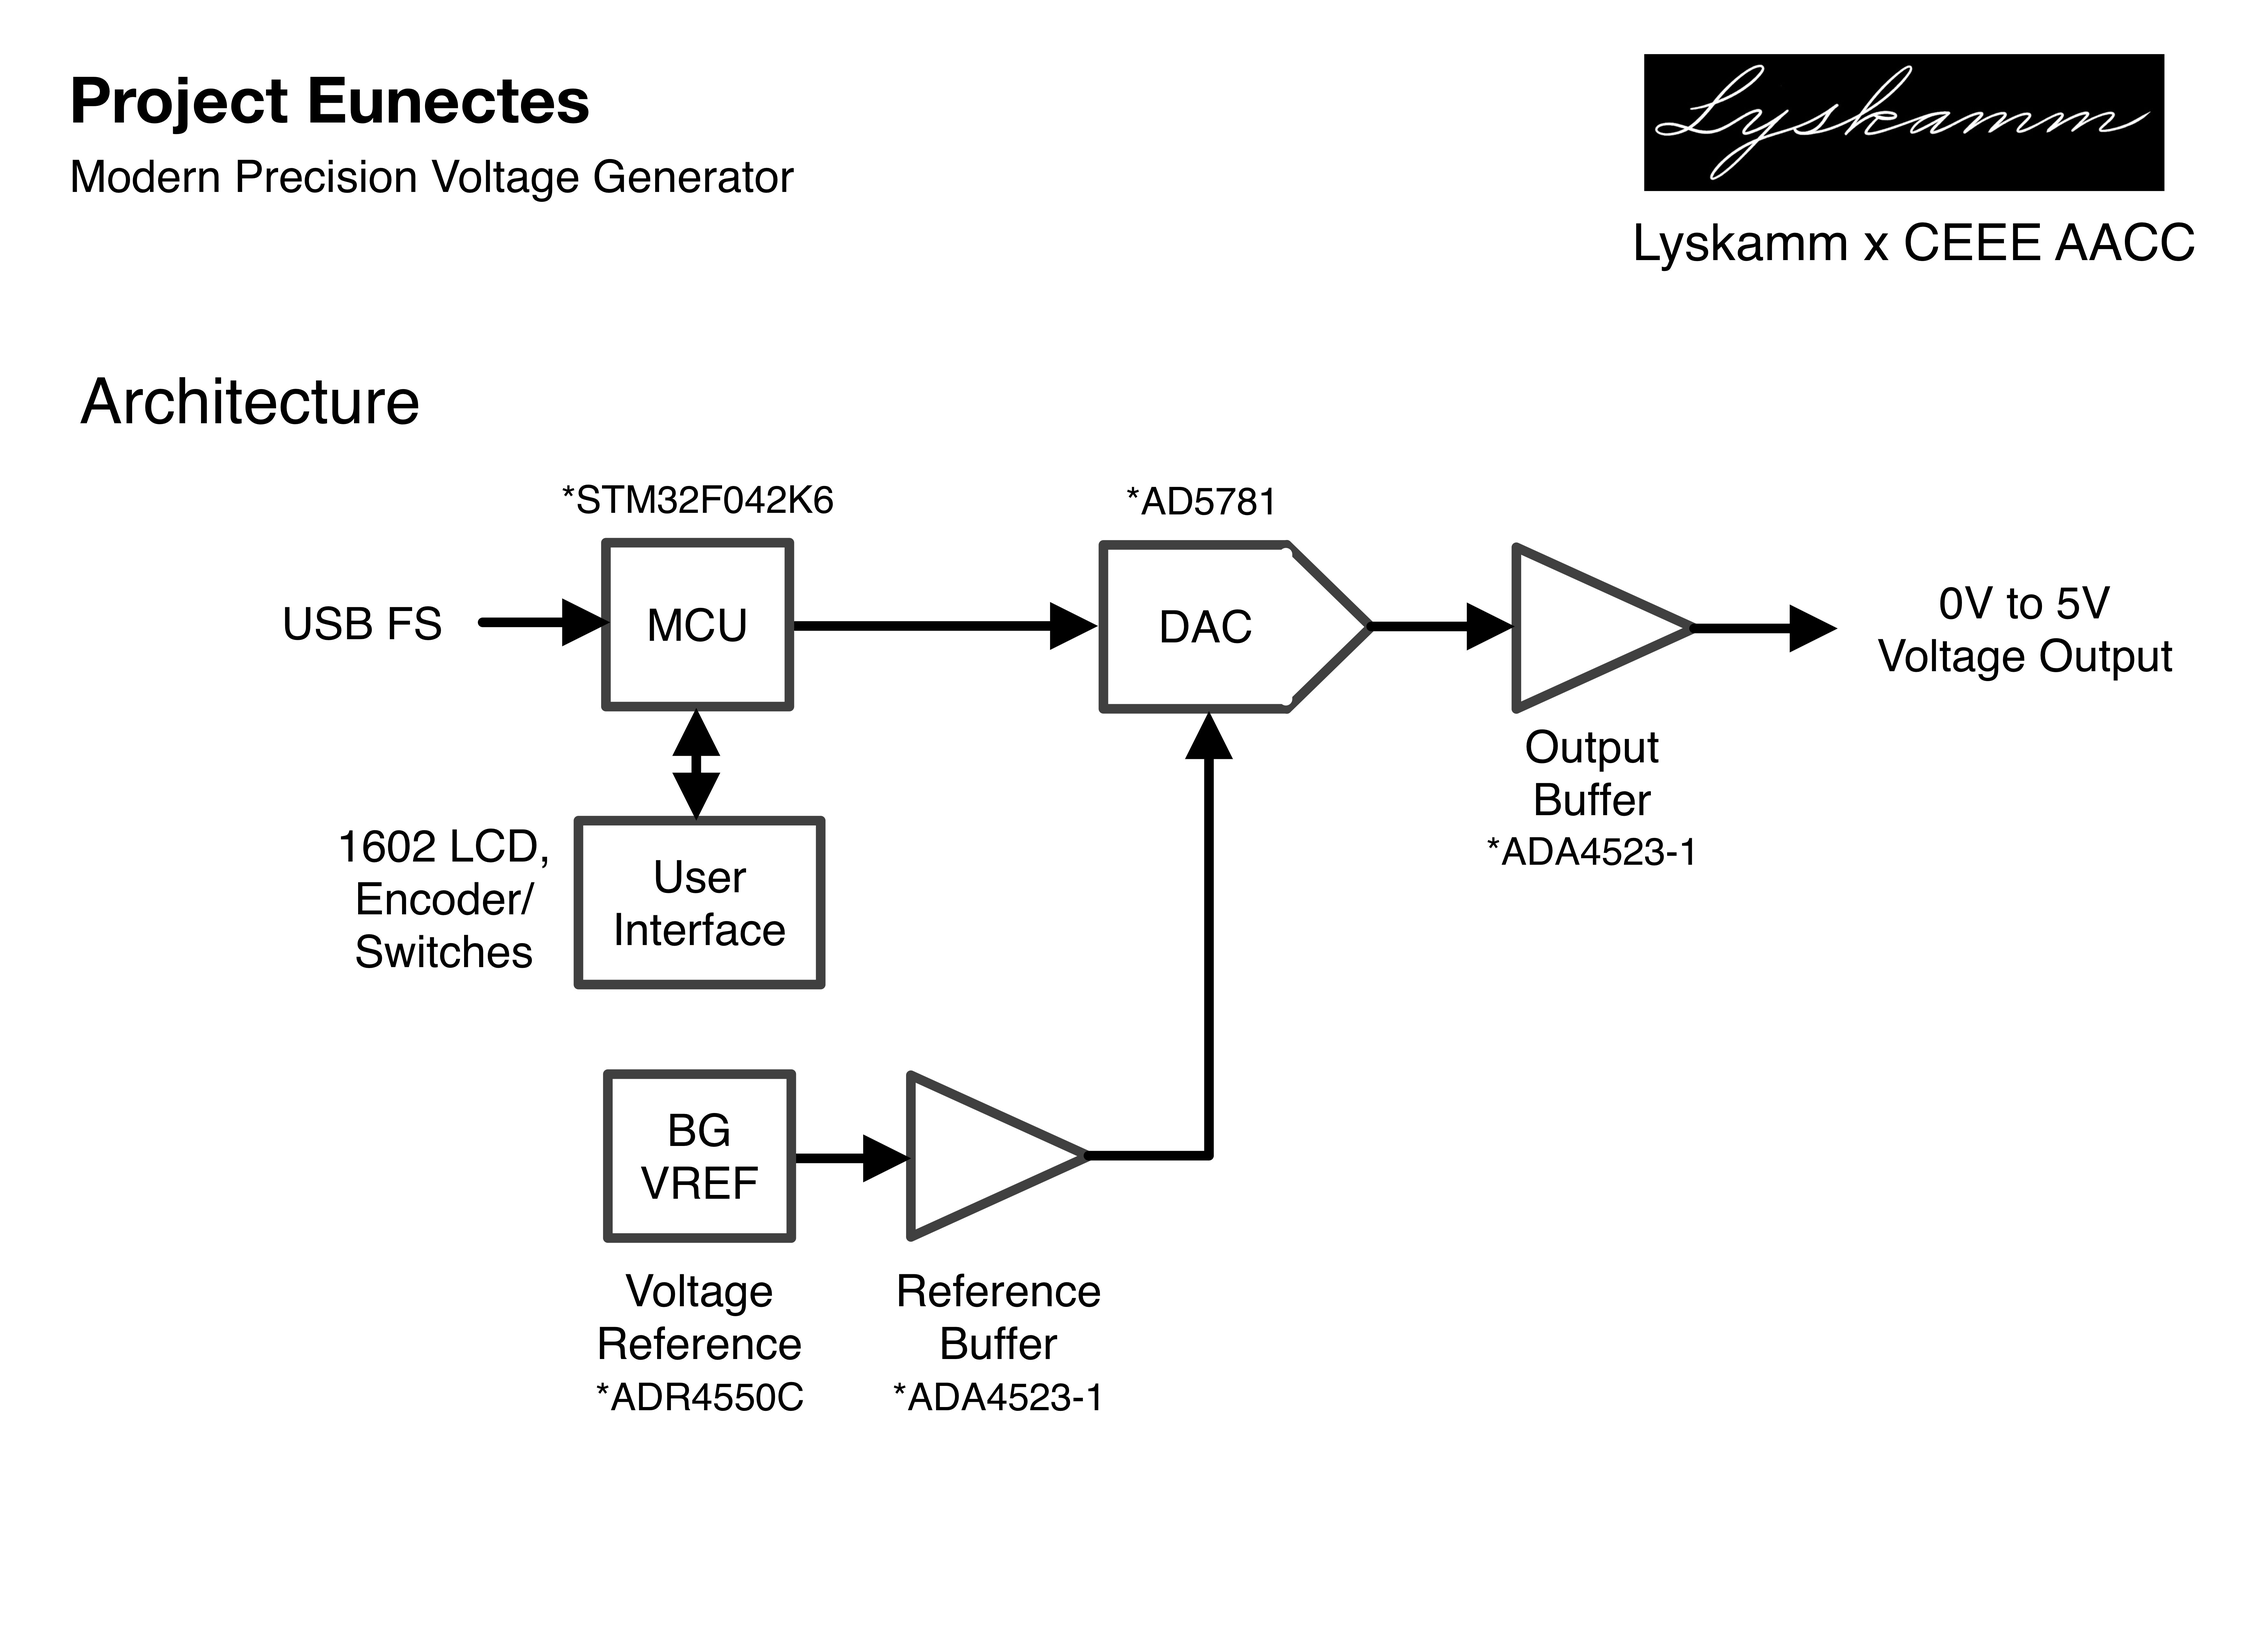
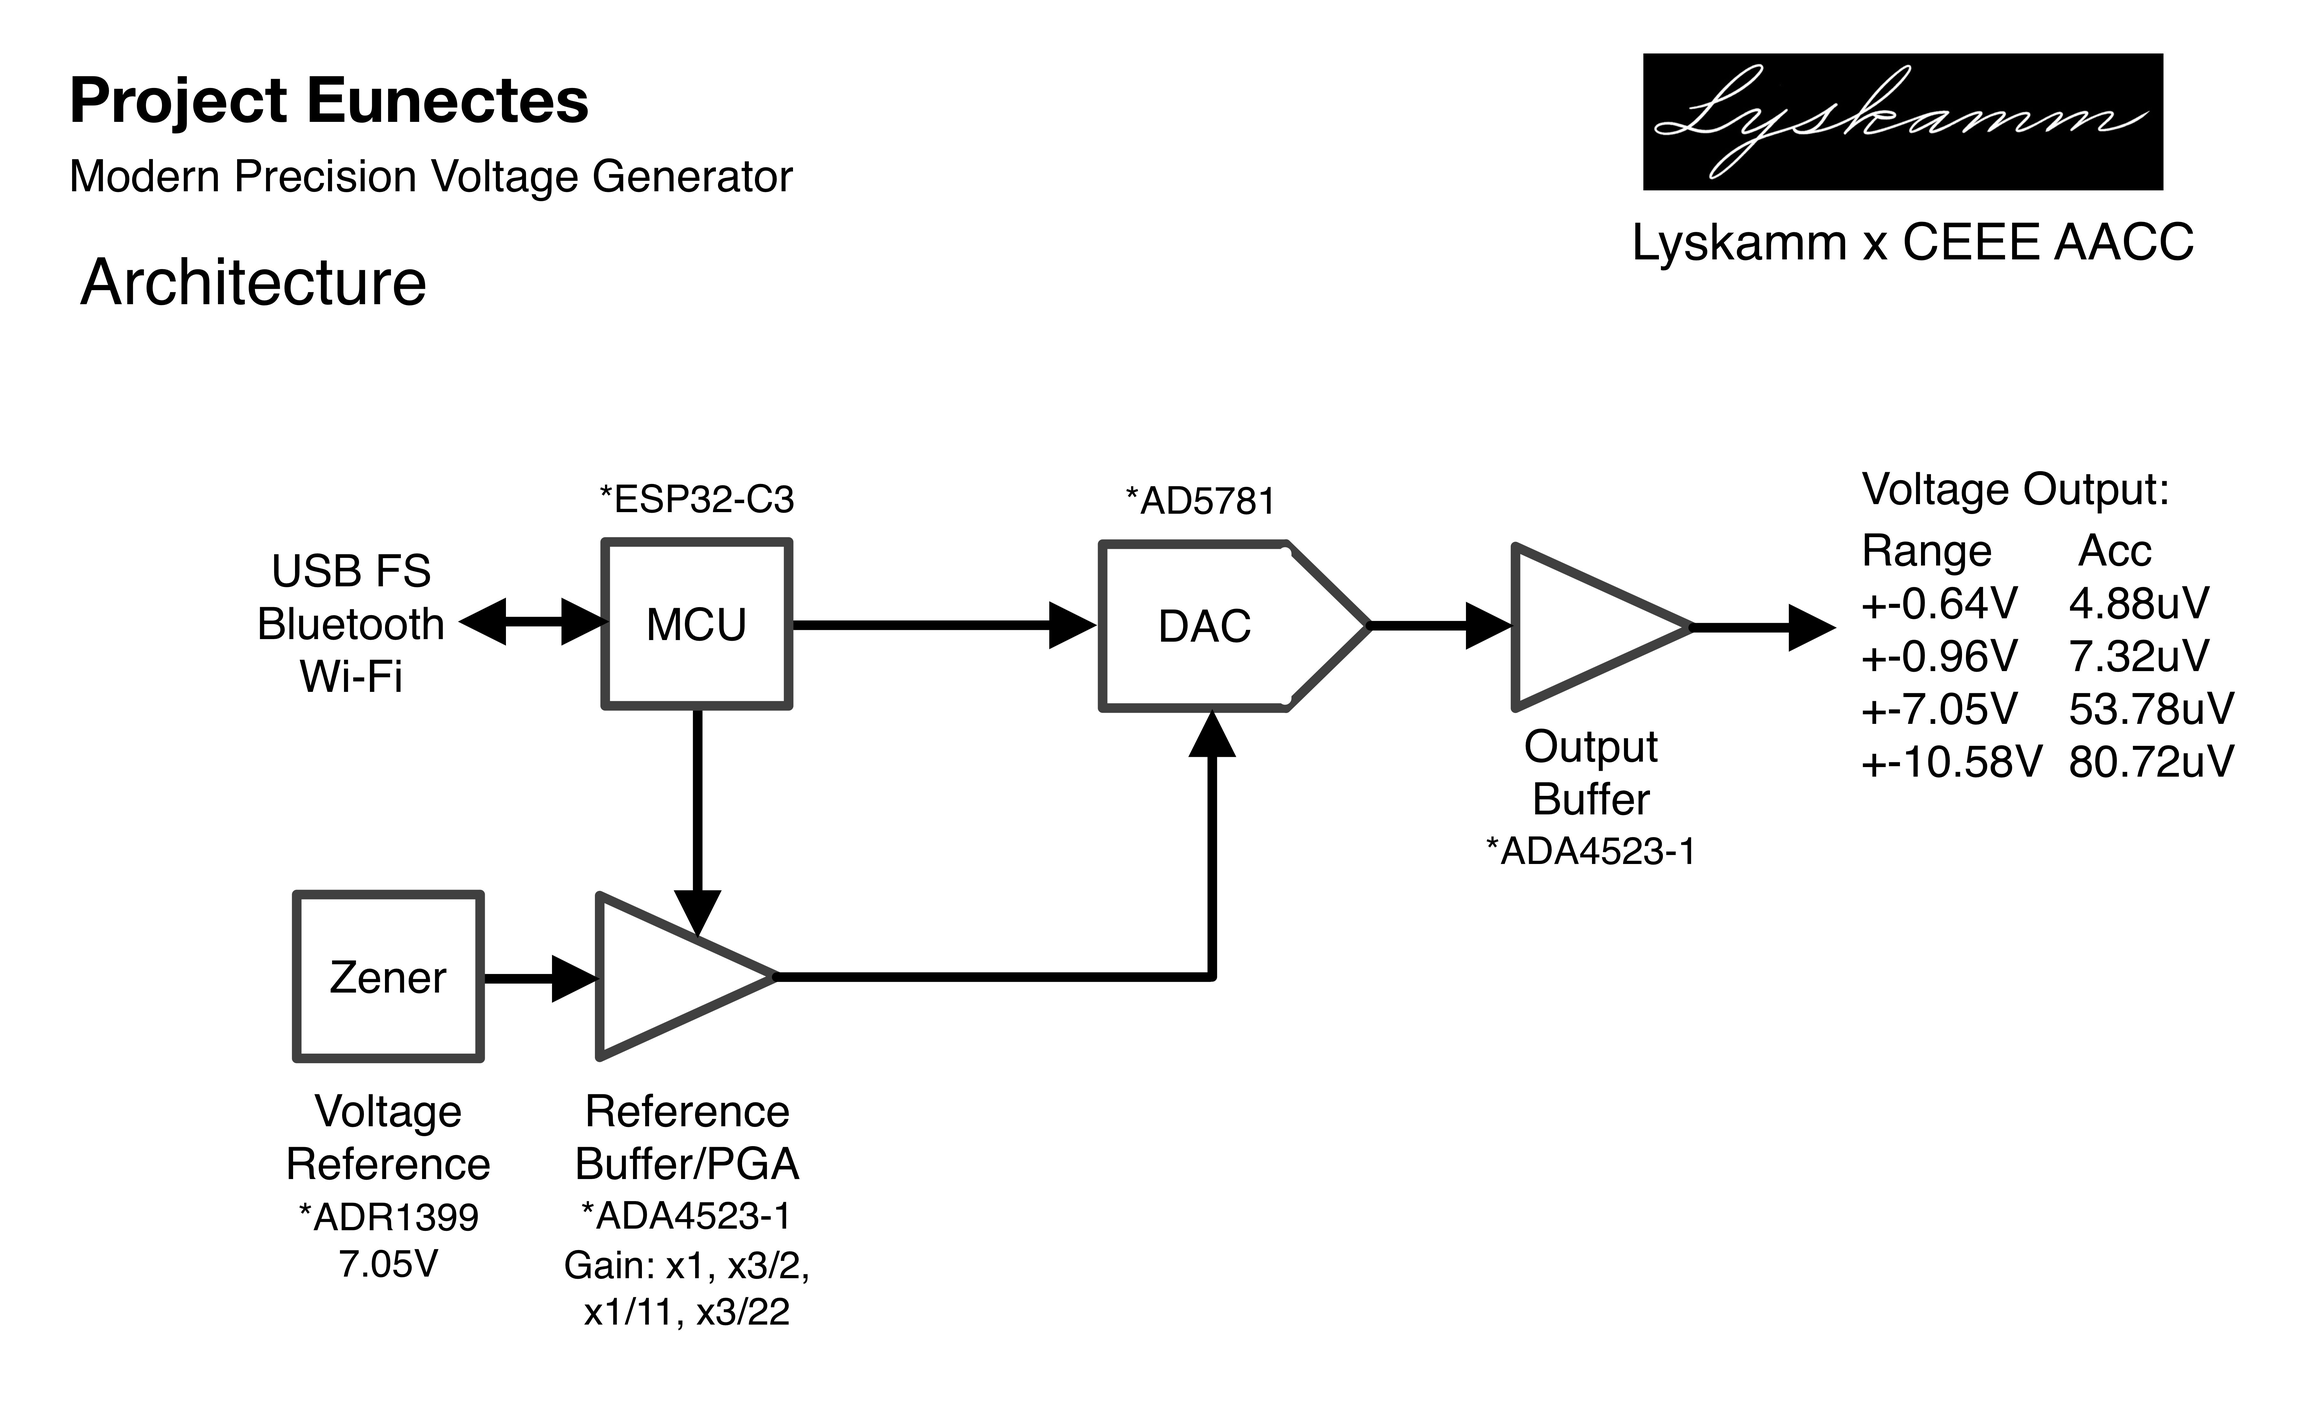
Site updated: 2024-03-11 17:01:10

diff --git a/projects/eunectes/introduction.html b/projects/eunectes/introduction.html
@@ -13,16 +13,13 @@
     
 
     
-        <meta name="description" content="Project Eunectes - 现代化精密电压源注：由于项目仍在开发中，故下文参数可能与最终参数不同。
+        <meta name="description" content="Project Eunectes - 现代化精密电压源注：由于项目仍在开发中，故下文参数可能与最终参数不同。Lyskamm x CEEE AACC Project
 特性
-产生0V~5V的电压
-控制精度20uV
+产生最高±10.58V的任意电压
+控制精度低至5uV
 电压随机误差小于5ppm
 温漂小于5ppm&amp;#x2F;°C
-±20mA输出电流
-内部设有锂电池不间断供电，可维持至少72h
-
-简介Project"/>
+±20mA输出电"/>
     
 
     <!--Author-->
@@ -37,16 +34,13 @@
 
     <!--Open Graph Description-->
     
-        <meta property="og:description" content="Project Eunectes - 现代化精密电压源注：由于项目仍在开发中，故下文参数可能与最终参数不同。
+        <meta property="og:description" content="Project Eunectes - 现代化精密电压源注：由于项目仍在开发中，故下文参数可能与最终参数不同。Lyskamm x CEEE AACC Project
 特性
-产生0V~5V的电压
-控制精度20uV
+产生最高±10.58V的任意电压
+控制精度低至5uV
 电压随机误差小于5ppm
 温漂小于5ppm&amp;#x2F;°C
-±20mA输出电流
-内部设有锂电池不间断供电，可维持至少72h
-
-简介Project"/>
+±20mA输出电"/>
     
 
     <!--Open Graph Site Name-->
@@ -203,7 +197,7 @@
                         <!-- Date and Author -->
                         
                         
-                            2023-12-18
+                            2024-03-09
                         
                     </span>
                 </div>
@@ -219,74 +213,136 @@
 
             <!-- Tags and categories -->
            
+                <div class="col-lg-4 col-lg-offset-2 col-md-5 col-md-offset-1 post-tags">
+                    
+                        
+
+
+<a href="/undefined">#undefined</a>
+
+
+                    
+                </div>
+                <div class="col-lg-4 col-md-5 post-categories">
+                    
+                </div>
+            
 
             <!-- Gallery -->
             
 
             <!-- Post Main Content -->
             <div class="col-lg-8 col-lg-offset-2 col-md-10 col-md-offset-1">
-                <h1 id="Project-Eunectes-现代化精密电压源"><a href="#Project-Eunectes-现代化精密电压源" class="headerlink" title="Project Eunectes - 现代化精密电压源"></a>Project Eunectes - 现代化精密电压源</h1><p><em>注：由于项目仍在开发中，故下文参数可能与最终参数不同。</em></p>
+                <h1 id="Project-Eunectes-现代化精密电压源"><a href="#Project-Eunectes-现代化精密电压源" class="headerlink" title="Project Eunectes - 现代化精密电压源"></a>Project Eunectes - 现代化精密电压源</h1><p><em>注：由于项目仍在开发中，故下文参数可能与最终参数不同。</em><br>Lyskamm x CEEE AACC Project</p>
 <h2 id="特性"><a href="#特性" class="headerlink" title="特性"></a>特性</h2><ul>
-<li>产生0V~5V的电压</li>
-<li>控制精度20uV</li>
+<li>产生最高±10.58V的任意电压</li>
+<li>控制精度低至5uV</li>
 <li>电压随机误差小于5ppm</li>
 <li>温漂小于5ppm&#x2F;°C</li>
 <li>±20mA输出电流</li>
 <li>内部设有锂电池不间断供电，可维持至少72h</li>
 </ul>
-<h2 id="简介"><a href="#简介" class="headerlink" title="简介"></a>简介</h2><p>Project Eunectes是一套精密电压发生系统。此系统的目标是采用尽可能现代化的元器件制作一套具有较高精度的任意电压源。<br>系统采用ADR4550C带隙基准源作为电压基准，由18bit DAC AD5781根据基准电压源产生0~5V的电压输出。系统采用ADA4523-1精密运放作为基准电压缓冲器与输出电压缓冲器，可提供最大±20mA的输出电流。<br>DAC输出由STM32F042K6 MCU控制。用户可通过板载的编码器旋钮调节输出电压，并通过其他按键实现对系统的控制；用户可通过板载的1602 LCD查看系统的工作信息。此外，系统还可通过USB接口由上位机软件控制。<br>系统可由USB Type-C接口从外部供电。当外部电源掉电时，系统将电源切换到内部的锂电池，从而维持电压基准的正常工作。接入外部电源时将自动向锂电池充电。<br>系统通过ADP5070 DC&#x2F;DC产生±10V的供电轨，并采用ADP7118正LDO与ADP7182负LDO得到低噪声的±9V模拟电源轨。+3.3V逻辑部分电源由TPS82130 DC&#x2F;DC模块提供。</p>
+<h2 id="简介"><a href="#简介" class="headerlink" title="简介"></a>简介</h2><p>Project Eunectes是一套精密电压发生系统。此系统的目标是采用尽可能现代化的元器件制作一套具有较高精度的精密电压源。<br>系统采用ADR1399亚表齐纳基准源作为电压基准，由18bit DAC AD5781根据基准电压源产生最高±10.58V的电压输出。系统采用ADA4523-1精密运放作为基准电压缓冲器与输出电压缓冲器，可提供最大±20mA的输出电流。<br>DAC输出由ESP32-C3 MCU控制。此外，系统还可通过USB接口或蓝牙&#x2F;Wi-Fi串口由上位机软件控制。<br>系统可由USB Type-C接口从外部供电。当外部电源掉电时，系统将电源切换到内部的锂电池，从而维持电压基准的正常工作。接入外部电源时将自动向锂电池充电。<br>系统通过LTM4661 uModule从3.6V~5V的输入电压升压至+15V，通过正LDO ADP7118产生+13.5V的模拟正压；采用LTM8063 uModule将+15V的正压反相至-14V，再通过负LDO ADP7182产生-13.5V的模拟负压。+3.3V逻辑部分电源由TPS82130 DC&#x2F;DC模块提供。</p>
 <h2 id="架构"><a href="#架构" class="headerlink" title="架构"></a>架构</h2><h3 id="总体架构"><a href="#总体架构" class="headerlink" title="总体架构"></a>总体架构</h3><p><img src="/projects/eunectes/assets/architecture.jpg" alt=" "></p>
 <h3 id="电源架构"><a href="#电源架构" class="headerlink" title="电源架构"></a>电源架构</h3><p><img src="/projects/eunectes/assets/power_scheme.jpg" alt=" "></p>
 <h2 id="性能参数-预估"><a href="#性能参数-预估" class="headerlink" title="性能参数(预估)"></a>性能参数(预估)</h2><table>
 <thead>
 <tr>
 <th>参数</th>
-<th>条件</th>
-<th>最小</th>
-<th>典型</th>
-<th>最大</th>
-<th>单位</th>
+<th>&nbsp;条件</th>
+<th>&nbsp;最小</th>
+<th>&nbsp;典型</th>
+<th>&nbsp;最大</th>
+<th>&nbsp;单位</th>
 </tr>
 </thead>
 <tbody><tr>
 <td>输出电压范围</td>
-<td>-</td>
-<td>0</td>
-<td>-</td>
-<td>5.0</td>
-<td>V</td>
+<td>&nbsp;x1</td>
+<td>&nbsp;-7.05</td>
+<td>&nbsp;-</td>
+<td>&nbsp;7.05</td>
+<td>&nbsp;V</td>
+</tr>
+<tr>
+<td></td>
+<td>&nbsp;x3&#x2F;2</td>
+<td>&nbsp;-10.58</td>
+<td>&nbsp;-</td>
+<td>&nbsp;10.58</td>
+<td>&nbsp;V</td>
+</tr>
+<tr>
+<td></td>
+<td>&nbsp;x1&#x2F;11</td>
+<td>&nbsp;-0.64</td>
+<td>&nbsp;-</td>
+<td>&nbsp;0.64</td>
+<td>&nbsp;V</td>
+</tr>
+<tr>
+<td></td>
+<td>&nbsp;x3&#x2F;22</td>
+<td>&nbsp;-0.96</td>
+<td>&nbsp;-</td>
+<td>&nbsp;0.96</td>
+<td>&nbsp;V</td>
 </tr>
 <tr>
 <td>控制精度</td>
-<td>-</td>
-<td>-</td>
-<td>20</td>
-<td>-</td>
-<td>uV</td>
+<td>&nbsp;x1</td>
+<td>&nbsp;-</td>
+<td>&nbsp;53.78</td>
+<td>&nbsp;-</td>
+<td>&nbsp;uV</td>
+</tr>
+<tr>
+<td></td>
+<td>&nbsp;x3&#x2F;2</td>
+<td>&nbsp;-</td>
+<td>&nbsp;80.72</td>
+<td>&nbsp;-</td>
+<td>&nbsp;uV</td>
+</tr>
+<tr>
+<td></td>
+<td>&nbsp;x1&#x2F;11</td>
+<td>&nbsp;-</td>
+<td>&nbsp;4.88</td>
+<td>&nbsp;-</td>
+<td>&nbsp;uV</td>
+</tr>
+<tr>
+<td></td>
+<td>&nbsp;x3&#x2F;22</td>
+<td>&nbsp;-</td>
+<td>&nbsp;7.32</td>
+<td>&nbsp;-</td>
+<td>&nbsp;uV</td>
 </tr>
 <tr>
 <td>输出电流</td>
-<td>-</td>
-<td>-20</td>
-<td>-</td>
-<td>20</td>
-<td>mA</td>
+<td>&nbsp;-</td>
+<td>&nbsp;-20</td>
+<td>&nbsp;-</td>
+<td>&nbsp;20</td>
+<td>&nbsp;mA</td>
 </tr>
 <tr>
 <td>电压随机误差</td>
-<td>-</td>
-<td>-</td>
-<td>-</td>
-<td>5</td>
-<td>ppm</td>
+<td>&nbsp;-</td>
+<td>&nbsp;-</td>
+<td>&nbsp;-</td>
+<td>&nbsp;5</td>
+<td>&nbsp;ppm</td>
 </tr>
 <tr>
 <td>温漂</td>
-<td>-</td>
-<td>-</td>
-<td>-</td>
-<td>5.0</td>
-<td>ppm</td>
+<td>&nbsp;-</td>
+<td>&nbsp;-</td>
+<td>&nbsp;-</td>
+<td>&nbsp;5.0</td>
+<td>&nbsp;ppm</td>
 </tr>
 </tbody></table>
 
